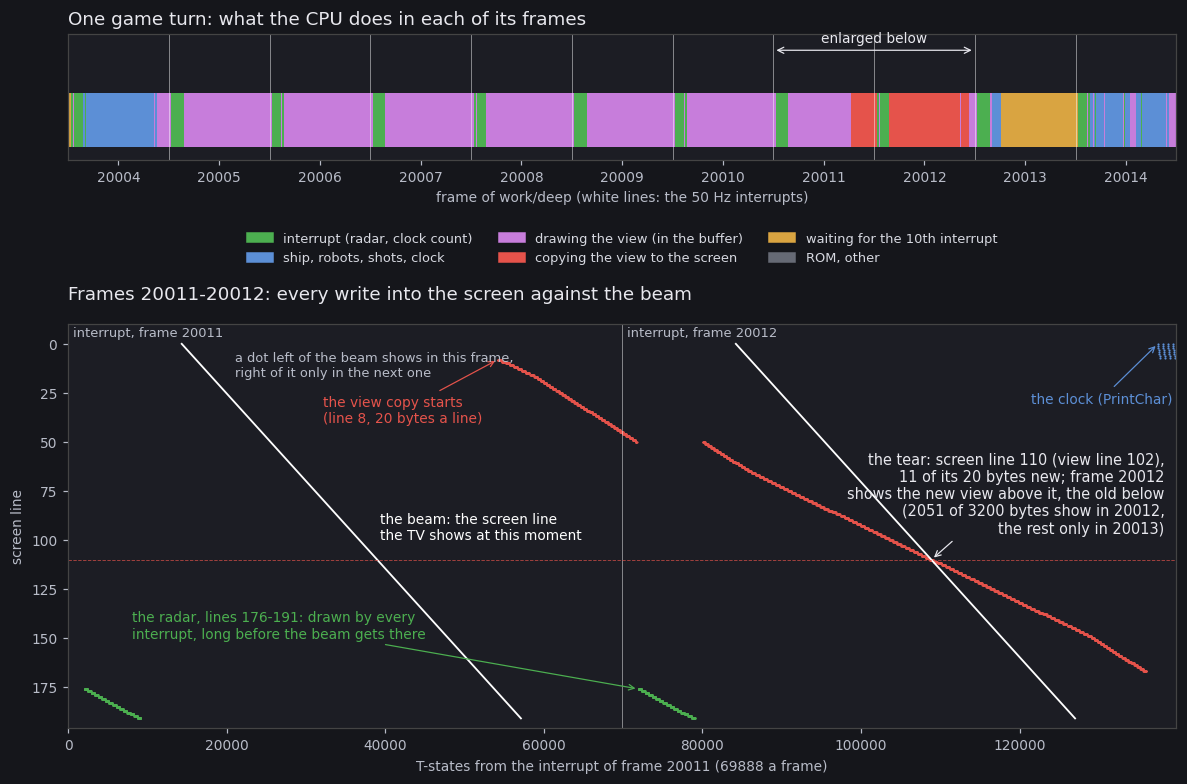
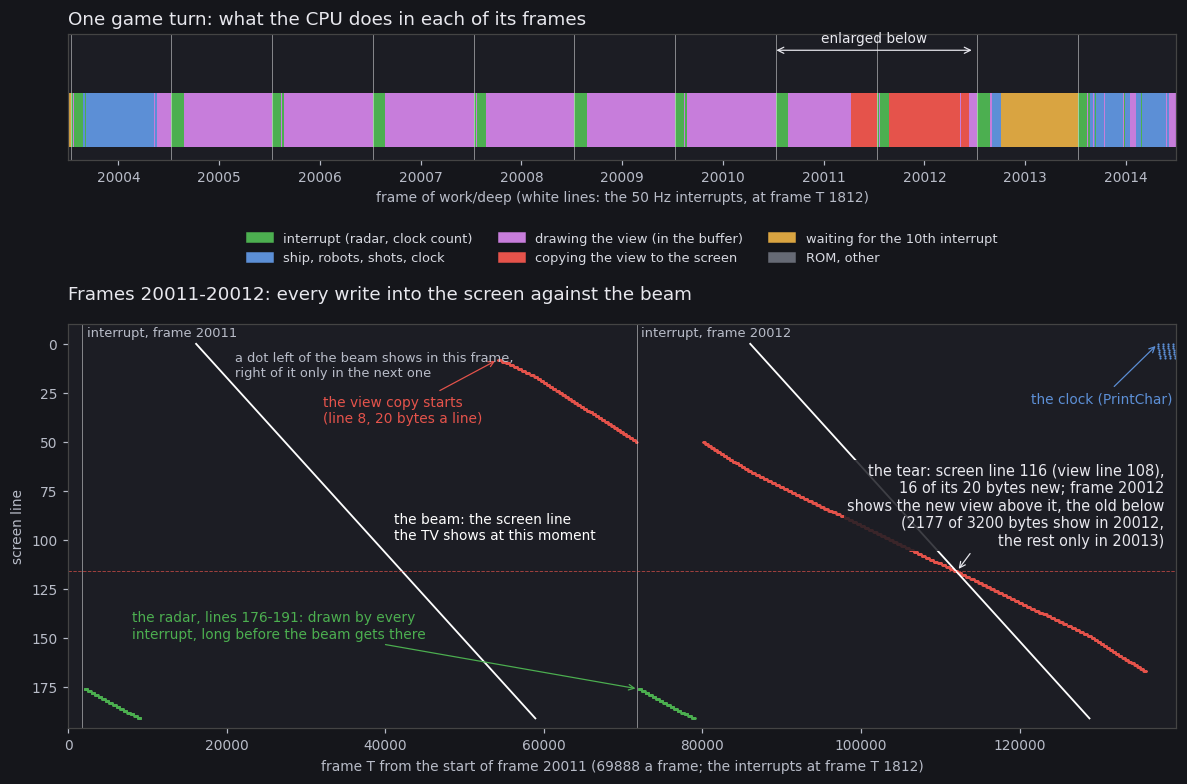
Beam figures: trace T is frame T, not T from the INT
unreal-ng's access traces count T from the emulator's frame start (accesstrace.cpp).
The INT comes at frame T 1812 on the 48K, 1846 on the 128K, and -44 on the Pentagon,
so the paper starts at frame T 16152 / 16212 / 17944. kit/beam_timeline.py takes the
numbers per machine and marks the INT. Nether Earth's tears are recomputed:
- doc 04 4.5: line 116, not 110;
- doc 06: view line 94, not 87.

diff --git a/kit/beam_timeline.py b/kit/beam_timeline.py
@@ -1,19 +1,31 @@
 #!/usr/bin/env python3
 """Code vs the beam: when, in each frame, each routine runs and writes which screen line, against the raster.
 
-One panel a frame of the trace. Across: the frame's T-states, from the interrupt (0) to the next. Down: the 192
-paper lines. The diagonal is the beam: the line the ULA is showing at that T-state. Every write into the screen is
-a dot at (when, which line) in its routine's colour, a square outline for an attribute (at its character row). A
-dot left of the diagonal lands before the beam reaches its line: it shows in this frame. A dot right of it lands
-after the beam passed: the line shows the old byte until the next frame, the tearing a game avoids by drawing
-behind the beam or off screen. Above the panel a strip shows which routine the CPU is in at each T-state.
+One panel a frame of the trace. Across: the frame T, the T-state in the emulator's frame as the trace stores it (0 is
+the frame start, not the interrupt; a green tick marks the INT). Down: the 192 paper lines. The diagonal is the
+beam: the line the ULA is showing at that T-state. Every write into the screen is a dot at (when, which line) in its
+routine's colour, a square outline for an attribute (at its character row). A dot left of the diagonal lands before
+the beam reaches its line: it shows in this frame. A dot right of it lands after the beam passed: the line shows the
+old byte until the next frame, the tearing a game avoids by drawing behind the beam or off screen. Above the panel a
+strip shows which routine the CPU is in at each T-state.
 
     python3 beam_timeline.py (--trace pass.uatr | --work W --window F:T-F:T)
            --listing build/game.lst --out docs/img/beam-pass.png
-           [--screen 4000] [--paper-t 14336] [--line-t 224] [--frames 3] [--pc 8000-FFFF] [--unreal U]
+           [--screen 4000] [--machine 48k|128k|pentagon] [--int-t T] [--int-to-paper T] [--paper-t T]
+           [--line-t 224] [--frames 3] [--pc 8000-FFFF] [--unreal U]
 
-48K timing by default (the first paper line at T 14336, 224 T a line); 128K / +2: --paper-t 14361 --line-t 228;
-Pentagon: --paper-t 17988 --line-t 224 (the 71680 T frame comes from the trace). The counts below the panel give
+The beam comes from unreal-ng's timing (core/src/emulator/config.cpp, ApplyModelTimingDefaults): the INT rises at
+frame T intstart + 1 and the first paper pixel follows it by a fixed distance, so the paper starts at frame T
+int-t + int-to-paper:
+
+    machine    frame T   INT at frame T     INT to paper   paper at frame T   T a line
+    48k        69888     1812               14340          16152              224
+    128k       70908     1846               14366          16212              228
+    pentagon   71680     -44 (71636 of      17988          17944              224
+                         the frame before)
+
+--machine picks the row (by default from the trace's frame length); --int-t and --int-to-paper override a column
+(an emulator with another intstart), --paper-t gives the paper's frame T outright. The counts below the panel give
 each routine's writes before and after the beam.
 """
 import argparse
@@ -29,6 +41,19 @@ import kitlib as K  # noqa: E402
 WIDTH = 1000
 LINES = 192
 STRIP = 14
+# machine: (frame T, the INT's frame T, INT to the first paper pixel, T a line), see the docstring
+MACHINES = {'48k': (69888, 1812, 14340, 224), '128k': (70908, 1846, 14366, 228), 'pentagon': (71680, -44, 17988, 224)}
+
+
+def beam_timing(args, frame_t):
+    """(the INT's frame T, the first paper pixel's frame T, T a line) from --machine / --int-t / --int-to-paper /
+    --paper-t / --line-t, the machine guessed from the trace's frame length when not given"""
+    machine = args.machine or next((k for k, v in MACHINES.items() if v[0] == frame_t), '48k')
+    _, int_t, to_paper, line_t = MACHINES[machine]
+    int_t = int_t if args.int_t is None else args.int_t
+    to_paper = to_paper if args.int_to_paper is None else args.int_to_paper
+    paper_t = int_t + to_paper if args.paper_t is None else args.paper_t
+    return int_t, paper_t, args.line_t or line_t
 
 
 def main():
@@ -37,8 +62,11 @@ def main():
     p.add_argument('--listing')
     p.add_argument('--out', required=True)
     p.add_argument('--screen', default='4000')
-    p.add_argument('--paper-t', type=int, default=14336)
-    p.add_argument('--line-t', type=int, default=224)
+    p.add_argument('--machine', choices=sorted(MACHINES), help='the timing (default: from the trace\'s frame length)')
+    p.add_argument('--int-t', type=int, help='the INT\'s frame T (default the machine\'s: 1812, 1846, -44)')
+    p.add_argument('--int-to-paper', type=int, help='T from the INT to the first paper pixel (14340, 14366, 17988)')
+    p.add_argument('--paper-t', type=int, help='the first paper pixel\'s frame T (default int-t + int-to-paper)')
+    p.add_argument('--line-t', type=int, help='T a line (default the machine\'s: 224, 228)')
     p.add_argument('--frames', type=int, default=3, help='at most this many frames, the first of the trace')
     p.add_argument('--pc', help='only these instructions\' writes and time (hex range)')
     p.add_argument('--title')
@@ -50,6 +78,8 @@ def main():
     pc_lo, pc_hi = K.hex_range(args.pc) if args.pc else (0, 0xFFFF)
     frame_t = trace.frame_t or 69888
     units = max(1, trace.units_per_t)
+    int_t, paper_t, line_t = beam_timing(args, frame_t)
+    print(f'frame {frame_t} T: the INT at frame T {int_t}, the paper at frame T {paper_t}, {line_t} T a line')
 
     frames = sorted({x.frame for x in trace.instructions})[:args.frames]
     keep = set(frames)
@@ -82,7 +112,7 @@ def main():
                 line, attr = ((offset - 0x1800) >> 5) * 8, True
             dots[frame].append((t, line, routine, attr))
             order[routine] += 1
-            beam = args.paper_t + line * args.line_t
+            beam = paper_t + line * line_t
             (ahead if t < beam else behind)[routine] += 1
 
     names = [k for k, _ in order.most_common()] + [k for k, _ in totals.most_common() if k not in order]
@@ -96,8 +126,8 @@ def main():
     height = top + len(frames) * (panel_h + gap) + legend_h + 10
     image = Image.new('RGB', (left + WIDTH + 20, height), K.BACKGROUND)
     draw = ImageDraw.Draw(image)
-    draw.text((left, 8), args.title or f'Screen writes vs the beam, frames {frames[0]}..{frames[-1]}',
-              fill=K.TEXT, font=K.font(15))
+    draw.text((left, 8), args.title or f'Screen writes vs the beam, frames {frames[0]}..{frames[-1]} '
+              f'(frame T; INT {int_t} green; paper {paper_t})', fill=K.TEXT, font=K.font(15))
 
     def tx(t):
         return left + int(WIDTH * t / frame_t)
@@ -111,10 +141,12 @@ def main():
         py = y + STRIP + 6
         draw.rectangle([left, py, left + WIDTH, py + LINES * 2], fill=K.PANEL)
         # the border time before the paper and after it
-        draw.rectangle([left, py, tx(args.paper_t), py + LINES * 2], fill=(30, 26, 36))
-        end = args.paper_t + LINES * args.line_t
+        draw.rectangle([left, py, tx(paper_t), py + LINES * 2], fill=(30, 26, 36))
+        end = paper_t + LINES * line_t
         draw.rectangle([tx(end), py, left + WIDTH, py + LINES * 2], fill=(30, 26, 36))
-        draw.line([(tx(args.paper_t), py), (tx(end), py + LINES * 2)], fill=(255, 255, 255), width=1)
+        draw.line([(tx(paper_t), py), (tx(end), py + LINES * 2)], fill=(255, 255, 255), width=1)
+        int_x = tx(int_t % frame_t)  # a negative INT (Pentagon) rises in the frame before: its mark is at the end
+        draw.line([(int_x, y - 3), (int_x, py + LINES * 2)], fill=(90, 220, 110), width=1)
         for t, line, routine, attr in dots[frame]:
             cx, cy = tx(t), py + line * 2
             if attr:
@@ -127,6 +159,7 @@ def main():
         y += panel_h + gap
     for t in range(0, frame_t, 10000):
         draw.text((tx(t), y - gap + 4), f'{t}', fill=K.DIM, font=small)
+    draw.text((tx(frame_t) - 50, y - gap + 4), 'frame T', fill=K.DIM, font=small)
 
     for k in names[:12]:
         draw.rectangle([left, y + 2, left + 12, y + 14], fill=colour[k])

diff --git a/games/nether-earth/tools/fig_beam_turn.py b/games/nether-earth/tools/fig_beam_turn.py
@@ -26,7 +26,9 @@ HERE = os.path.dirname(os.path.abspath(__file__))
 sys.path.insert(0, os.path.join(HERE, '..', '..', '..', 'kit'))
 import kitlib as K  # noqa: E402
 
-FRAME_T, PAPER_T, LINE_T = 69888, 14336, 224
+# 48K in unreal-ng (config.cpp ApplyModelTimingDefaults): the trace's T is the frame T (0 = the emulator's frame
+# start); the INT rises at frame T 1812 (intstart 1811 + 1), the first paper pixel 14340 T later, at frame T 16152
+FRAME_T, INT_T, PAPER_T, LINE_T = 69888, 1812, 16152, 224
 # module ranges of src/game/game.ann
 MODULES = [(0xA600, 'start'), (0xA720, 'robotmenu'), (0xAD62, 'gameturn'), (0xAF11, 'ship'), (0xB0CA, 'world'),
            (0xB7F4, 'enemy'), (0xBB09, 'bases'), (0xBDA9, 'level'), (0xC100, 'mainmenu'), (0xC4A7, 'music'),
@@ -141,14 +143,14 @@ def draw_turn(ax, runs, frames, f0, cf):
     for a0, a1, ph in runs:
         ax.barh(0, max(a1 - a0, 1e-4), left=a0, height=0.8, color=COLOUR[ph], linewidth=0)
     n = len(frames)
-    for i in range(n + 1):
-        ax.axvline(i, color='#ffffff', lw=0.6, alpha=0.5)
+    for i in range(n):
+        ax.axvline(i + INT_T / FRAME_T, color='#ffffff', lw=0.6, alpha=0.5)
     ax.set_xlim(0, n)
     ax.set_ylim(-0.6, 1.3)
     ax.set_yticks([])
     ax.set_xticks([i + 0.5 for i in range(n)])
     ax.set_xticklabels([str(f) for f in frames])
-    ax.set_xlabel('frame of work/deep (white lines: the 50 Hz interrupts)', color='#b8bcc8', fontsize=9)
+    ax.set_xlabel('frame of work/deep (white lines: the 50 Hz interrupts, at frame T 1812)', color='#b8bcc8', fontsize=9)
     ax.set_title('One game turn: what the CPU does in each of its frames', color='#e8e8ee', fontsize=12, loc='left')
     ax.annotate('', xy=(cf - f0, 1.05), xytext=(cf - f0 + 2, 1.05),
                 arrowprops=dict(arrowstyle='<->', color='#e8e8ee', lw=0.8))
@@ -163,8 +165,8 @@ def draw_copy(bx, dots, cf, title):
     for k in range(2):
         b0 = k * FRAME_T + PAPER_T
         bx.plot([b0, b0 + 191 * LINE_T], [0, 191], color='#ffffff', lw=1.2)
-        bx.axvline(k * FRAME_T, color='#ffffff', lw=0.6, alpha=0.5)
-        bx.text(k * FRAME_T + 600, -4, f'interrupt, frame {cf + k}', color='#b8bcc8', fontsize=8.5)
+        bx.axvline(k * FRAME_T + INT_T, color='#ffffff', lw=0.6, alpha=0.5)
+        bx.text(k * FRAME_T + INT_T + 600, -4, f'interrupt, frame {cf + k}', color='#b8bcc8', fontsize=8.5)
     bx.text(PAPER_T + 105 * LINE_T + 1500, 100, 'the beam: the screen line\nthe TV shows at this moment',
             color='#ffffff', fontsize=9, rotation=0)
     for kind, colour, size in (('other', '#5c8fd6', 2), ('radar', '#4caf50', 3), ('copy', '#e5534b', 2)):
@@ -172,7 +174,7 @@ def draw_copy(bx, dots, cf, title):
             xs, ys = zip(*dots[kind])
             bx.scatter(xs, ys, s=size, color=colour, linewidths=0)
     # what frame cf+1 shows: a byte is new there when it was written before the beam fetched it in that frame
-    # (line L, column c: T 14336 + 224 L + 4 c); the tear is the first line the beam reaches before the copy does
+    # (line L, column c: frame T 16152 + 224 L + 4 c); the tear is the first line the beam reaches before the copy does
     def shown_new(t, line, col):
         return t <= FRAME_T + PAPER_T + line * LINE_T + 4 * col
     lines = {}
@@ -199,7 +201,7 @@ def draw_copy(bx, dots, cf, title):
                     f'({ahead} of {len(copy)} bytes show in {cf + 1},\n'
                     f'the rest only in {cf + 2})',
                     xy=cross, xytext=(2 * FRAME_T - 1500, cross[1] - 55), ha='right', va='top', color='#e8e8ee',
-                    fontsize=9.5,
+                    fontsize=9.5, bbox=dict(facecolor='#1c1d24', edgecolor='none', alpha=0.85, pad=2),
                     arrowprops=dict(arrowstyle='->', color='#e8e8ee', lw=0.8))
     if dots['radar']:
         r = sorted(dots['radar'])
@@ -215,7 +217,7 @@ def draw_copy(bx, dots, cf, title):
     bx.set_xlim(0, total)
     bx.set_ylim(196, -10)
     bx.set_ylabel('screen line', color='#b8bcc8', fontsize=9)
-    bx.set_xlabel(f'T-states from the interrupt of frame {cf} (69888 a frame)', color='#b8bcc8', fontsize=9)
+    bx.set_xlabel(f'frame T from the start of frame {cf} (69888 a frame; the interrupts at frame T 1812)', color='#b8bcc8', fontsize=9)
     bx.set_title(title or f'Frames {cf}-{cf + 1}: every write into the screen against the beam', color='#e8e8ee',
                  fontsize=12, loc='left', pad=16)
 

diff --git a/games/nether-earth/tools/ill_render.py b/games/nether-earth/tools/ill_render.py
@@ -1085,7 +1085,9 @@ def fig_worldmap(a):
 # ---------------------------------------------------------------------------------------------------------------
 # 06: the screen copy against the beam: a torn frame
 
-PAPER_T, LINE_T = 14336, 224          # 48K: the first paper line's first byte, T-states a line
+# 48K in unreal-ng: the trace's T is the frame T (0 = the emulator's frame start, the INT at frame T 1812); the first
+# paper line's first byte at frame T 16152 (14340 T after the INT), T-states a line
+PAPER_T, LINE_T = 16152, 224
 
 
 def fig_tear(a):
@@ -1150,12 +1152,12 @@ def fig_tear(a):
                                   'written in time, the', f'other {20 - torn} ' + (
                                       'the same in' if same else 'still old'), 'both views' if same else '']):
             d.text((x + 160 * S + 16, y - 16 + 15 * j), line, fill=(255, 40, 40), font=small)
-        d.text((x, top + 160 * S + 22), f'lines 0-{tear}: new (copied before the beam came)', fill=K.DIM, font=tiny)
+        d.text((x, top + 160 * S + 22), f'lines 0-{tear - 1}: new (copied before the beam came)', fill=K.DIM, font=tiny)
         d.text((x, top + 160 * S + 36), f'lines {tear + 1}-159: old (the beam came first)', fill=K.DIM, font=tiny)
     y = top + 160 * S + 64
     d.text((20, y), f'The copy writes a view line every ~468 T-states, the beam shows a screen line every {LINE_T}: '
            'the beam catches the copy up', fill=K.DIM, font=tiny)
-    d.text((20, y + 14), 'when the copy starts in the last ~23 400 T of a frame or the first ~15 600; started '
+    d.text((20, y + 14), 'when the copy starts in the last ~21 600 T of a frame or the first ~17 400 (frame T); started '
            'between those, the copy stays ahead and the frame is whole.', fill=K.DIM, font=tiny)
     d.text((20, H - 22), f'tools/ill_render.py tear --trace {rel(a.trace)} --out {rel(a.out)}', fill=K.DIM,
            font=tiny)

diff --git a/games/nether-earth/docs/04-game-loop.md b/games/nether-earth/docs/04-game-loop.md
@@ -194,38 +194,44 @@ $AE1D  LD A,(TurnFrames)   ; TurnPace
 So a turn is at least 10 frames, 200 ms: 5 turns a second, 12 turns a game hour, 288 a game day (57.6 s).
 
 - **The work fits.** The work of a turn takes about 8.3 frames. In the traced turn, the work ended in frame 20013
-  at T 18 396; the wait then spun for 53 385 T, three quarters of a frame, until the tenth interrupt of the turn.
+  at frame T 18 396; the wait then spun for 53 385 T, three quarters of a frame, until the tenth interrupt of the turn.
 - **Turns are 10 frames almost always.** `deep` averages 36 046 / 3 414 = 10.6 frames a turn. The excess comes from
   the frames no turn runs in: the construction menus (the first one was open for about 120 frames), and the start before frame 130.
 - **The clear drops leftover frames.** A turn whose work ran past 10 frames does not carry the extra frames into the
   next turn, because the clear sets the count to 0.
 
 **The beam.** The turn is not synchronised with the beam. Its start drifts with the work, and only the interrupt
-gives it a phase: the wait ends just after an interrupt, so a turn starts about 10 400 T into a frame.
+gives it a phase: the wait ends just after an interrupt, so a turn starts at about frame T 10 260, 8 450 T after the
+interrupt.
+
+T here is the frame T: the T-state in the emulator's frame, as unreal-ng's access trace stores it. Frame T 0 is not
+the interrupt: on the 48K the INT rises at frame T 1812 and the first paper pixel comes 14 340 T later, at frame
+T 16 152 (unreal-ng `ApplyModelTimingDefaults`, `intstart` 1811).
 
 ![One game turn: its phases over 11 frames, then the copy's two frames against the beam](img/beam-turn.png)
 
 How to read the figure:
 
 - **The top strip** is one turn of `deep`, frames 20004-20014, one colour for each phase:
-  - the interrupt at the start of every frame (green);
+  - the interrupt near the start of every frame, at frame T 1812 (green; the white lines);
   - the ship, robots, shots and clock (blue, frame 20004);
   - drawing the view in the buffer (purple, about seven frames);
   - copying it to the screen (red, about a frame);
   - waiting for the tenth interrupt (yellow);
   - from frame 20014, the next turn.
 - **The lower panel** enlarges the copy's two frames, 20011 and 20012:
-  - across: the time from the interrupt of 20011, in T-states;
+  - across: the frame T from the start of frame 20011 (69 888 a frame); the thin vertical lines are the interrupts,
+    at frame T 1812;
   - down: the screen line;
   - each dot: one byte written into the screen.
 - **The white diagonals** are the beam: the line the TV shows at that moment, one diagonal a frame. A byte written
   left of the diagonal shows in that frame; one written right of it waits for the beam's next pass.
 - **The red slope** is the copy, 20 bytes a line. It starts at line 8 late in frame 20011 and pauses for the
-  interrupt. In 20012 it is slower than the beam and crosses it at line 110:
-  - lines 8-109 were written before the beam passed and show the new view;
-  - line 110 is split: 11 of its 20 bytes are new;
-  - lines 111-167 were written after the beam passed: for that frame they still show the old view;
-  - in all, 2051 of the 3200 bytes show in frame 20012, the other 1149 only in 20013.
+  interrupt. In 20012 it is slower than the beam and crosses it at line 116:
+  - lines 8-115 were written before the beam passed and show the new view;
+  - line 116 is split: 16 of its 20 bytes are new;
+  - lines 117-167 were written after the beam passed: for that frame they still show the old view;
+  - in all, 2177 of the 3200 bytes show in frame 20012, the other 1023 only in 20013.
   - That is the tear.
 - **The green steps** at lines 176-191 are the radar, redrawn by every interrupt at the start of the frame, long
   before the beam reaches the bottom: it never tears.
@@ -240,11 +246,11 @@ python3 tools/fig_beam_turn.py --trace work/docA/deep/traces/20004_0-20015_0.uat
 
 The writers to the screen in the 11 frames, by loop. "Ahead" counts a write made before the beam reached its line
 in the same frame; a copy byte written behind the beam late in 20011 still shows in 20012, so these columns are not
-the 2051 above:
+the 2177 above:
 
 | Loop | Writes | Ahead of the beam | Behind the beam | What |
 | --- | ---: | ---: | ---: | --- |
-| `CopyLineLoop` (`CopyViewToScreen` `$D071`) | 3 200 | 1 294 | 1 906 | the 160 x 160 view, 20 bytes a line |
+| `CopyLineLoop` (`CopyViewToScreen` `$D071`) | 3 200 | 1 420 | 1 780 | the 160 x 160 view, 20 bytes a line |
 | `RadarLineLoop` (`ShowRadar` `$D59E`) | 2 816 | 2 816 | 0 | the radar picture, lines 176-191, at the start of every interrupt |
 | `FillAttrLoop` (`FillAttr16` `$D5BD`) | 352 | 352 | 0 | the radar's attributes |
 | `GlyphLineLoop` (`PrintChar` `$D4B1`) | 90 | 54 | 36 | the clock |
@@ -254,7 +260,7 @@ What this shows:
 - **The radar never tears.** The interrupt draws it at the top of the frame, long before the beam reaches screen
   line 176.
 - **The view copy does tear.** It takes about 1.05 frames, starting wherever the drawing ended (here frame 20011,
-  T 54 139), and it overtakes the beam: in frame 20012 the beam crosses it at screen line 110. Above that line
+  frame T 54 139), and it overtakes the beam: in frame 20012 the beam crosses it at screen line 116. Above that line
   the screen shows the new view, below it the old one, for one frame.
 - **The tear is at a different place every turn.** The copy's start depends on how long the drawing took, and the
   game makes no attempt to start it at the interrupt.

diff --git a/games/nether-earth/docs/06-rendering.md b/games/nether-earth/docs/06-rendering.md
@@ -118,16 +118,18 @@ bytes x 72 lines to `$48E0`), the nuclear flash (the view's attributes saved at 
 
 **Tearing.** The copy writes a line every 468 T-states (20 `LDI` and the address stepping), the beam shows one every
 224: the copy runs at half the beam's speed, so the beam can only catch it from behind. A 48K frame shows the paper
-from T 14336; the view's line 0 is screen line 8.
+from frame T 16 152 (the T-state in unreal-ng's frame, as the trace stores it; the INT rises at frame T 1812, 14 340 T
+before the paper); the view's line 0 is screen line 8.
 
-- A copy that starts in the last ~23 400 T-states of a frame or the first ~15 600 is overtaken in the next frame.
+- A copy that starts in the last ~21 600 T-states of a frame or the first ~17 400 (frame T) is overtaken in the next
+  frame.
   The lines the copy already wrote show the new view, the rest the old.
 - A copy that starts between those stays ahead of the beam to the end, and the frame is whole.
 
 In `work/deep` the copy at 25081:66907 started 2981 T-states before the frame's end. The beam overtakes it in frame
-25082 at view line 87 (screen line 95):
+25082 at view line 94 (screen line 102):
 
-![A torn frame: the new view down to view line 87, the old one below](img/render/tear.png)
+![A torn frame: the new view down to view line 94, the old one below](img/render/tear.png)
 
 How to read the figure:
 
@@ -135,35 +137,36 @@ How to read the figure:
 - **Left:** the screen before the copy. The turn before it was a menu's, so it is blank and the tear is plain to see.
 - **Middle:** the new view in the buffer `$5B00`, what the copy writes.
 - **Right:** what the beam showed in frame 25082. For each byte, the value in memory at the moment the beam fetched
-  it (T 14336 + 224 x screen line + 4 x column), from the trace's write cycles.
-- **The red line** is the tear. In view line 87 the copy wrote 17 of the 20 bytes before the beam came. The other 3
-  are blank in both views, so the picture changes from view line 88 down.
+  it (frame T 16 152 + 224 x screen line + 4 x column), from the trace's write cycles.
+- **The red line** is the tear. In view line 94 the copy wrote 6 of the 20 bytes before the beam came; the other 14
+  still show the old (blank) line, and the lines below it are old too.
 
 In play the old and the new view differ by at most one column, and the tear is a small step.
 
 The beam against the copy's writes, in the same two frames:
 
-![The beam overtakes the view copy at screen line 95](img/render/tear-beam.png)
+![The beam overtakes the view copy at screen line 102](img/render/tear-beam.png)
 
 How to read the figure:
 
-- **Across:** T-states from the interrupt of frame 25081; the thin vertical line is the interrupt of 25082.
+- **Across:** the frame T from the start of frame 25081 (69 888 a frame); the thin vertical lines are the interrupts
+  of 25081 and 25082, at frame T 1812.
 - **Down:** the screen line, 0 at the top.
 - **The white diagonals** are the beam: the line the TV shows at that moment, one diagonal a frame. A byte written
   left of a diagonal shows in that frame; one written right of it waits for the next pass.
 - **The red slope** is the copy, one dot a byte written, 20 a line. It starts at screen line 8 near the end of 25081.
-  It is slower than the beam (a flatter slope), so in 25082 the beam crosses it at screen line 95: the
+  It is slower than the beam (a flatter slope), so in 25082 the beam crosses it at screen line 102: the
   tear of the figure above.
 - **The blue marks** at the top right are the clock, printed after the copy.
 
-Of the 3200 bytes, 1757 were written before the beam fetched them in 25082 and show there. The other 1443 show only
-in 25083. The two figures agree: screen line 95 is view line 87.
+Of the 3200 bytes, 1886 were written before the beam fetched them in 25082 and show there. The other 1314 show only
+in 25083. The two figures agree: screen line 102 is view line 94.
 
 ```
 python3 tools/ill_render.py tear --trace work/ill2/deep/traces/25081_0-25083_0.uatr --out docs/img/render/tear.png
 python3 tools/fig_beam_turn.py --trace work/ill2/deep/traces/25081_0-25083_0.uatr --listing work/mkgame/game.lst \
     --copy-frame 25081 --copy-only --out docs/img/render/tear-beam.png \
-    --title 'The beam overtakes the view copy at screen line 95: frame 25082 shows the new view above, the old one below'
+    --title 'The beam overtakes the view copy at screen line 102: frame 25082 shows the new view above, the old one below'
 ```
 
 The trace is the access trace of frames 25081:0-25083:0 of `work/deep`. Neither figure needs an emulator.

diff --git a/recipes/07-figures.md b/recipes/07-figures.md
@@ -19,7 +19,11 @@ density required are in [the guide, section 4](../GUIDE.md#4-figures).
    grid, `--sources` names the data each writer read before its writes (a sprite frame, a mask, a glyph).
 4. **Beam timelines**: `kit/beam_timeline.py --work W --window F:0-F+3:0 --listing build/game.lst --out ...` draws
    each frame's T axis with the routine running, the beam's diagonal and every screen write against it, with the
-   counts of writes before and after the beam (128K timing: `--paper-t 14361 --line-t 228`).
+   counts of writes before and after the beam. The T axis is the frame T, the T-state in unreal-ng's frame as the
+   trace stores it, not the time from the INT: the INT is at frame T 1812 on the 48K, 1846 on the 128K and -44 on
+   the Pentagon, so the paper starts at frame T 16 152, 16 212 and 17 944. The machine follows the trace's frame
+   length; `--machine`, `--int-t`, `--int-to-paper` or `--paper-t` override it. A case's own beam figure takes the
+   same numbers and labels its axis "frame T" (or converts to "T from the INT" and says so).
 5. **Stage animations, heatmaps, screenshots**: `kit/memanim.py`, `kit/heatmap.py`, `kit/screen_shot.py`.
 6. Put each figure in the document where its routine is described, a caption first: what it shows, the
    recording, frames and T-states. Link the hot routines' animations from doc 12 (`refdocs.py` links

diff --git a/kit/README.md b/kit/README.md
@@ -45,7 +45,7 @@ yellow fading through red, trails dark.
 | --- | --- | --- |
 | `routine_anim.py` | a routine at work: memory map lit by age, the screen or buffer it draws into, the listing window, the registers | an access trace |
 | `writers_map.py` | code vs screen: each byte of the screen or a buffer coloured by the routine (or instruction) that wrote it, the data it read, a zoom | an access trace |
-| `beam_timeline.py` | code vs the beam: the routines along a frame's T-states, every screen write against the raster | an access trace |
+| `beam_timeline.py` | code vs the beam: the routines along a frame's T-states (frame T, the INT marked), every screen write against the raster | an access trace |
 | `memanim.py` | memory over a longer stretch (a load, an unpack, a level set-up) | `memory_at` samples |
 | `screen_anim.py` | the screen over frames | `memory_at` samples |
 | `screen_shot.py` | the screen at named moments | `memory_at` |
